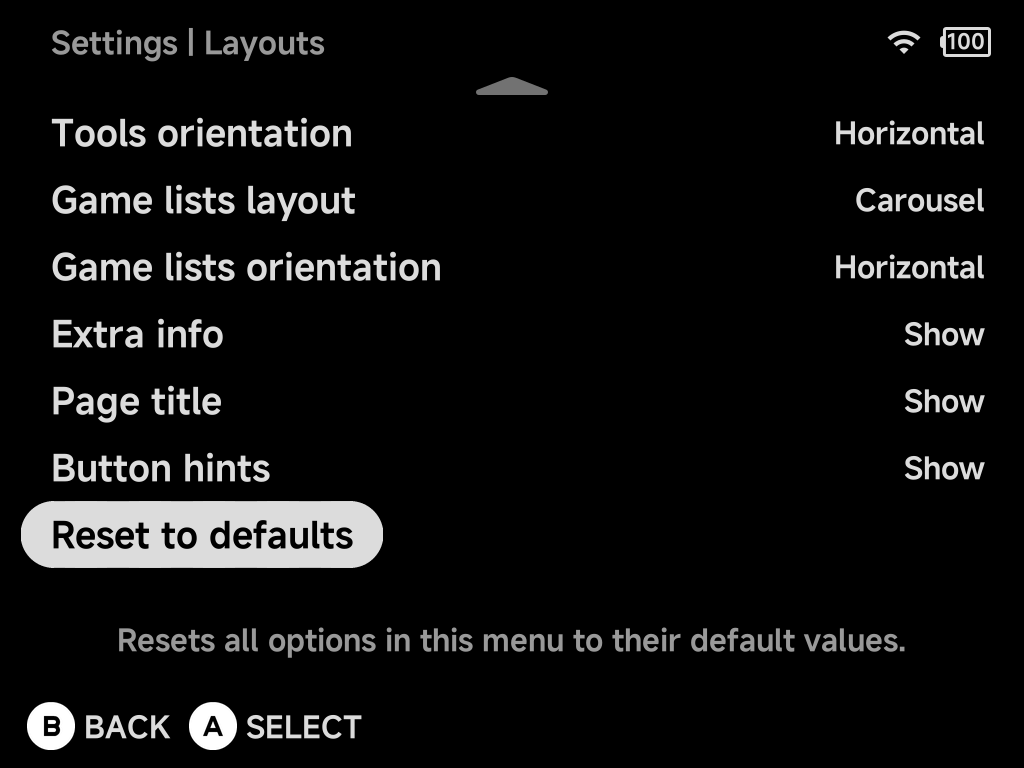
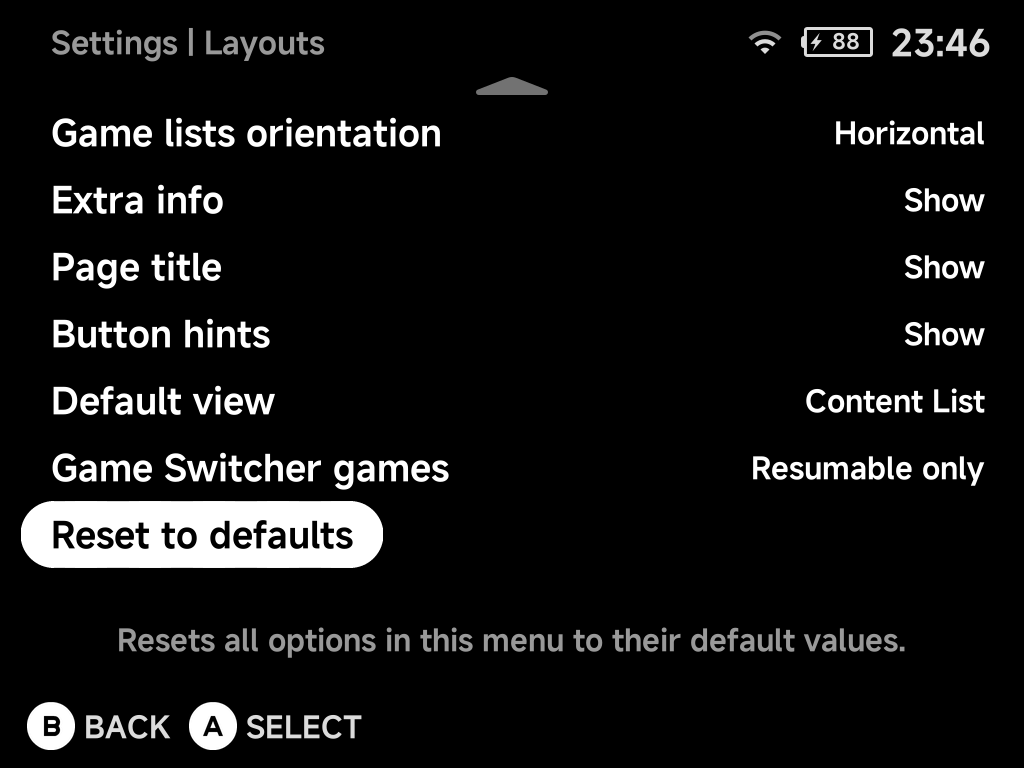
docs: Carousel content-width items, two-line game captions, and Settings rows moved (#7)
* docs(mobile): Collections and Tools Carousel items sized to their names

* docs(mobile): the game list Carousel caption's two info lines

* docs(mobile): the Backdrop caption's info lines, as the Carousel's

* docs(settings): boot view and Game Switcher rows moved to Layouts, clock rows to Appearance

---------

diff --git a/docs/handheld/settings/layouts.md b/docs/handheld/settings/layouts.md
@@ -8,7 +8,8 @@ soon as you leave Settings, with no restart. See
 ![Layouts settings](../../assets/screenshots/set-layouts.png)
 
 The rows are grouped by what they change: Home first, then each tab, then the
-game lists, then the options that apply to the whole menu. A tab's layout rows
+game lists, then the options that apply to the whole menu, then the view
+shown at boot and the Game Switcher. A tab's layout rows
 show only while that tab is shown.
 
 ## Home tab
@@ -129,7 +130,7 @@ box art and Wheel come from
 
 ## Extra info
 
-![Layouts settings, the game list, Extra info, page title and button hint rows](../../assets/screenshots/set-layouts-2.png)
+![Layouts settings, the Extra info, page title, button hint, default view and Game Switcher rows](../../assets/screenshots/set-layouts-2.png)
 
 `Show` (default) or `Hide` the extra game details in the menus:
 
@@ -156,6 +157,19 @@ volume and brightness changes included. Hidden:
   achievements and next achievement in the bar's row instead (unless
   [Extra info](#extra-info) is hidden);
 - carousels run down into the freed row.
+
+## Default view
+
+The first view shown on boot: `Content List` (the main menu, default) or
+`Game Switcher` (the [Game Switcher](../guide/game-switcher.md)). Moved here from
+[System](system.md); your existing choice carries over.
+
+## Game Switcher games
+
+Which recently played games appear in the
+[Game Switcher](../guide/game-switcher.md): `Resumable only` (the default) or
+`All recent games`. Moved here from [System](system.md); your existing choice
+carries over.
 
 ## Reset to defaults
 

diff --git a/docs/mobile/layouts.md b/docs/mobile/layouts.md
@@ -132,7 +132,12 @@ handheld.
 A single row with the selected item large in the middle and its neighbours
 to the sides. Consoles show their logo over their controller, collections
 their name, tools their icon. In a game list the caption under the selected
-game gives its name, play time and achievements.
+game gives its name, then its play time and achievement count on one line and
+the next achievement to earn on the line below.
+
+On the Collections and Tools tabs each item is only as wide as its name or
+icon, and the space between neighbours stays the same, so short and long names
+sit evenly along the row.
 
 *Consoles tab*
 
@@ -145,7 +150,9 @@ game gives its name, play time and achievements.
 ## Backdrop
 
 Game lists only. The selected game's box art stands over its dimmed
-screenshot, with its neighbours' boxes to the sides.
+screenshot, with its neighbours' boxes to the sides. Its caption is laid out
+like the Carousel's: the name, then the play time and achievement count, then
+the next achievement on its own line. The Vertical orientation shows the same lines.
 
 ![Game list in Backdrop style](../assets/screenshots/mobile/game-list-backdrop.webp)
 

diff --git a/docs/handheld/settings/appearance.md b/docs/handheld/settings/appearance.md
@@ -53,6 +53,16 @@ Color of the selected list entry's text.
 
 Show the battery level as a percentage in the status pill.
 
+![Appearance settings, the status pill rows](../../assets/screenshots/set-appearance-2.png)
+
+## Show clock
+
+Show the clock in the status pill. Off by default.
+
+## Show 24h time format
+
+Show the clock in 24-hour format. On by default.
+
 ## Show search hint
 
 Show or hide the `START` search button hint on the main menu tabs. Hiding it
@@ -102,3 +112,4 @@ Resets all options on this page to their default values. The
     | **Show Recents** | Removed. Your last game is Home's Continue card, and the [Game Switcher](../guide/game-switcher.md) lists the rest. |
     | **Game art visible / style / type / width / corner radius**, **Use folder background for ROMs** | Removed. Each [layout](../guide/layouts.md) places the art itself. |
     | **Show folder names at root** | Removed. Names always show. |
+    | **Show clock**, **Show 24h time format** (were in [System](system.md)) | Here, under [Show battery percentage](#show-battery-percentage). Your existing choices carry over. |

diff --git a/docs/handheld/settings/system.md b/docs/handheld/settings/system.md
@@ -56,24 +56,6 @@ Settings itself.
 - `Layout letters`: hints show the button's role instead (`A` for confirm,
   whichever cap that is).
 
-## Default view
-
-The first view shown on boot: the content list or the
-[Game Switcher](../guide/game-switcher.md).
-
-## Game Switcher games
-
-Which recently played games appear in the Game Switcher: `Resumable only`
-(the default) or all recent games.
-
-## Show 24h time format
-
-Show the clock in 24-hour format.
-
-## Show clock
-
-Show the clock in the status pill.
-
 ## Set time and date automatically
 
 Sync time via NTP (requires internet).
@@ -126,3 +108,11 @@ Clears the cached emulator/ROMs list so it rescans on the next launch.
 ## Reset to defaults
 
 Resets all options on this page to their default values.
+
+??? info "Options that moved"
+    | Option | Now |
+    | --- | --- |
+    | **Default view**, **Game Switcher games** | [Layouts](layouts.md#default-view) |
+    | **Show clock**, **Show 24h time format** | [Appearance](appearance.md#show-clock) |
+
+    Your existing choices carry over.

diff --git a/docs/handheld/guide/game-switcher.md b/docs/handheld/guide/game-switcher.md
@@ -29,5 +29,5 @@ visual even for freshly added titles.
 ## Resumable-only by default
 
 By default the switcher lists **only resumable games**. To see all recent
-games, set [**Game Switcher games**](../settings/system.md#game-switcher-games)
-in **Settings → System** to `All recent games`.
+games, set [**Game Switcher games**](../settings/layouts.md#game-switcher-games)
+in **Settings → Layouts** to `All recent games`.
